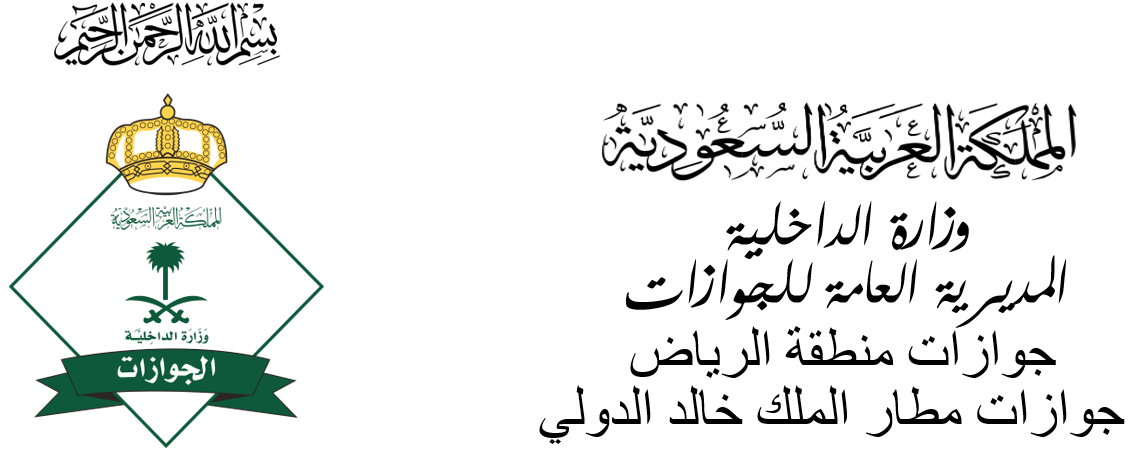
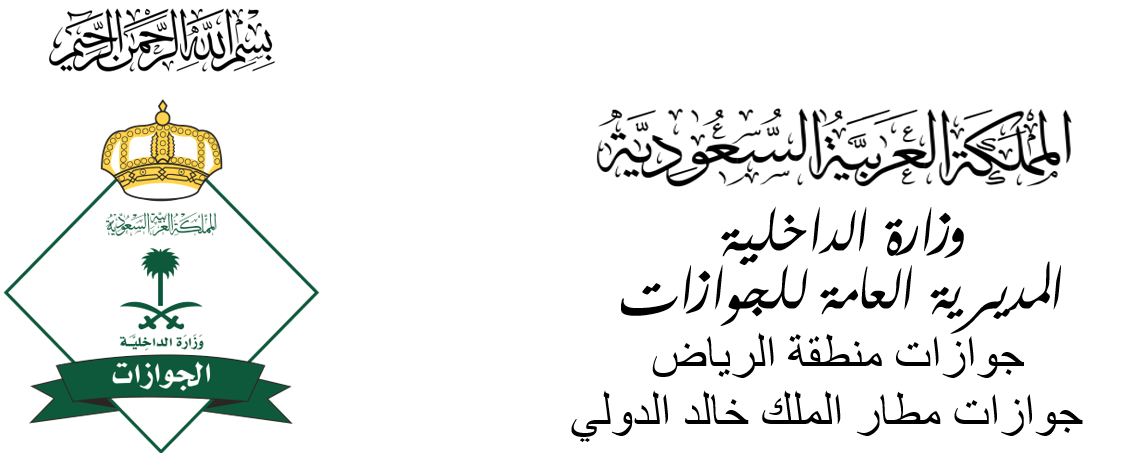
5

diff --git a/page/last-pass/result.html b/page/last-pass/result.html
@@ -27,7 +27,7 @@
             margin: 0;
         }
         .page {
-            width: 180mm; /* تعديل عرض الصفحة لتقليل الحواف */
+            width: 200mm; /* تعديل عرض الصفحة لتقليل الحواف */
             height: 270mm; /* ارتفاع الصفحة A4 */
             margin: auto;
             padding: 0; /* إزالة الهوامش الداخلية */
@@ -43,7 +43,7 @@
             width: 60%; /* عرض الصورة يكون بنسبة 70% */
             max-width: 550px; /* أقصى عرض للصورة */
             margin-left: 200px;
-            margin-right: -70px;
+            margin-right: -80px;
             position: relative;
             top: -18px; /* رفع الصورة لتكون خارج الإطار */
         }
